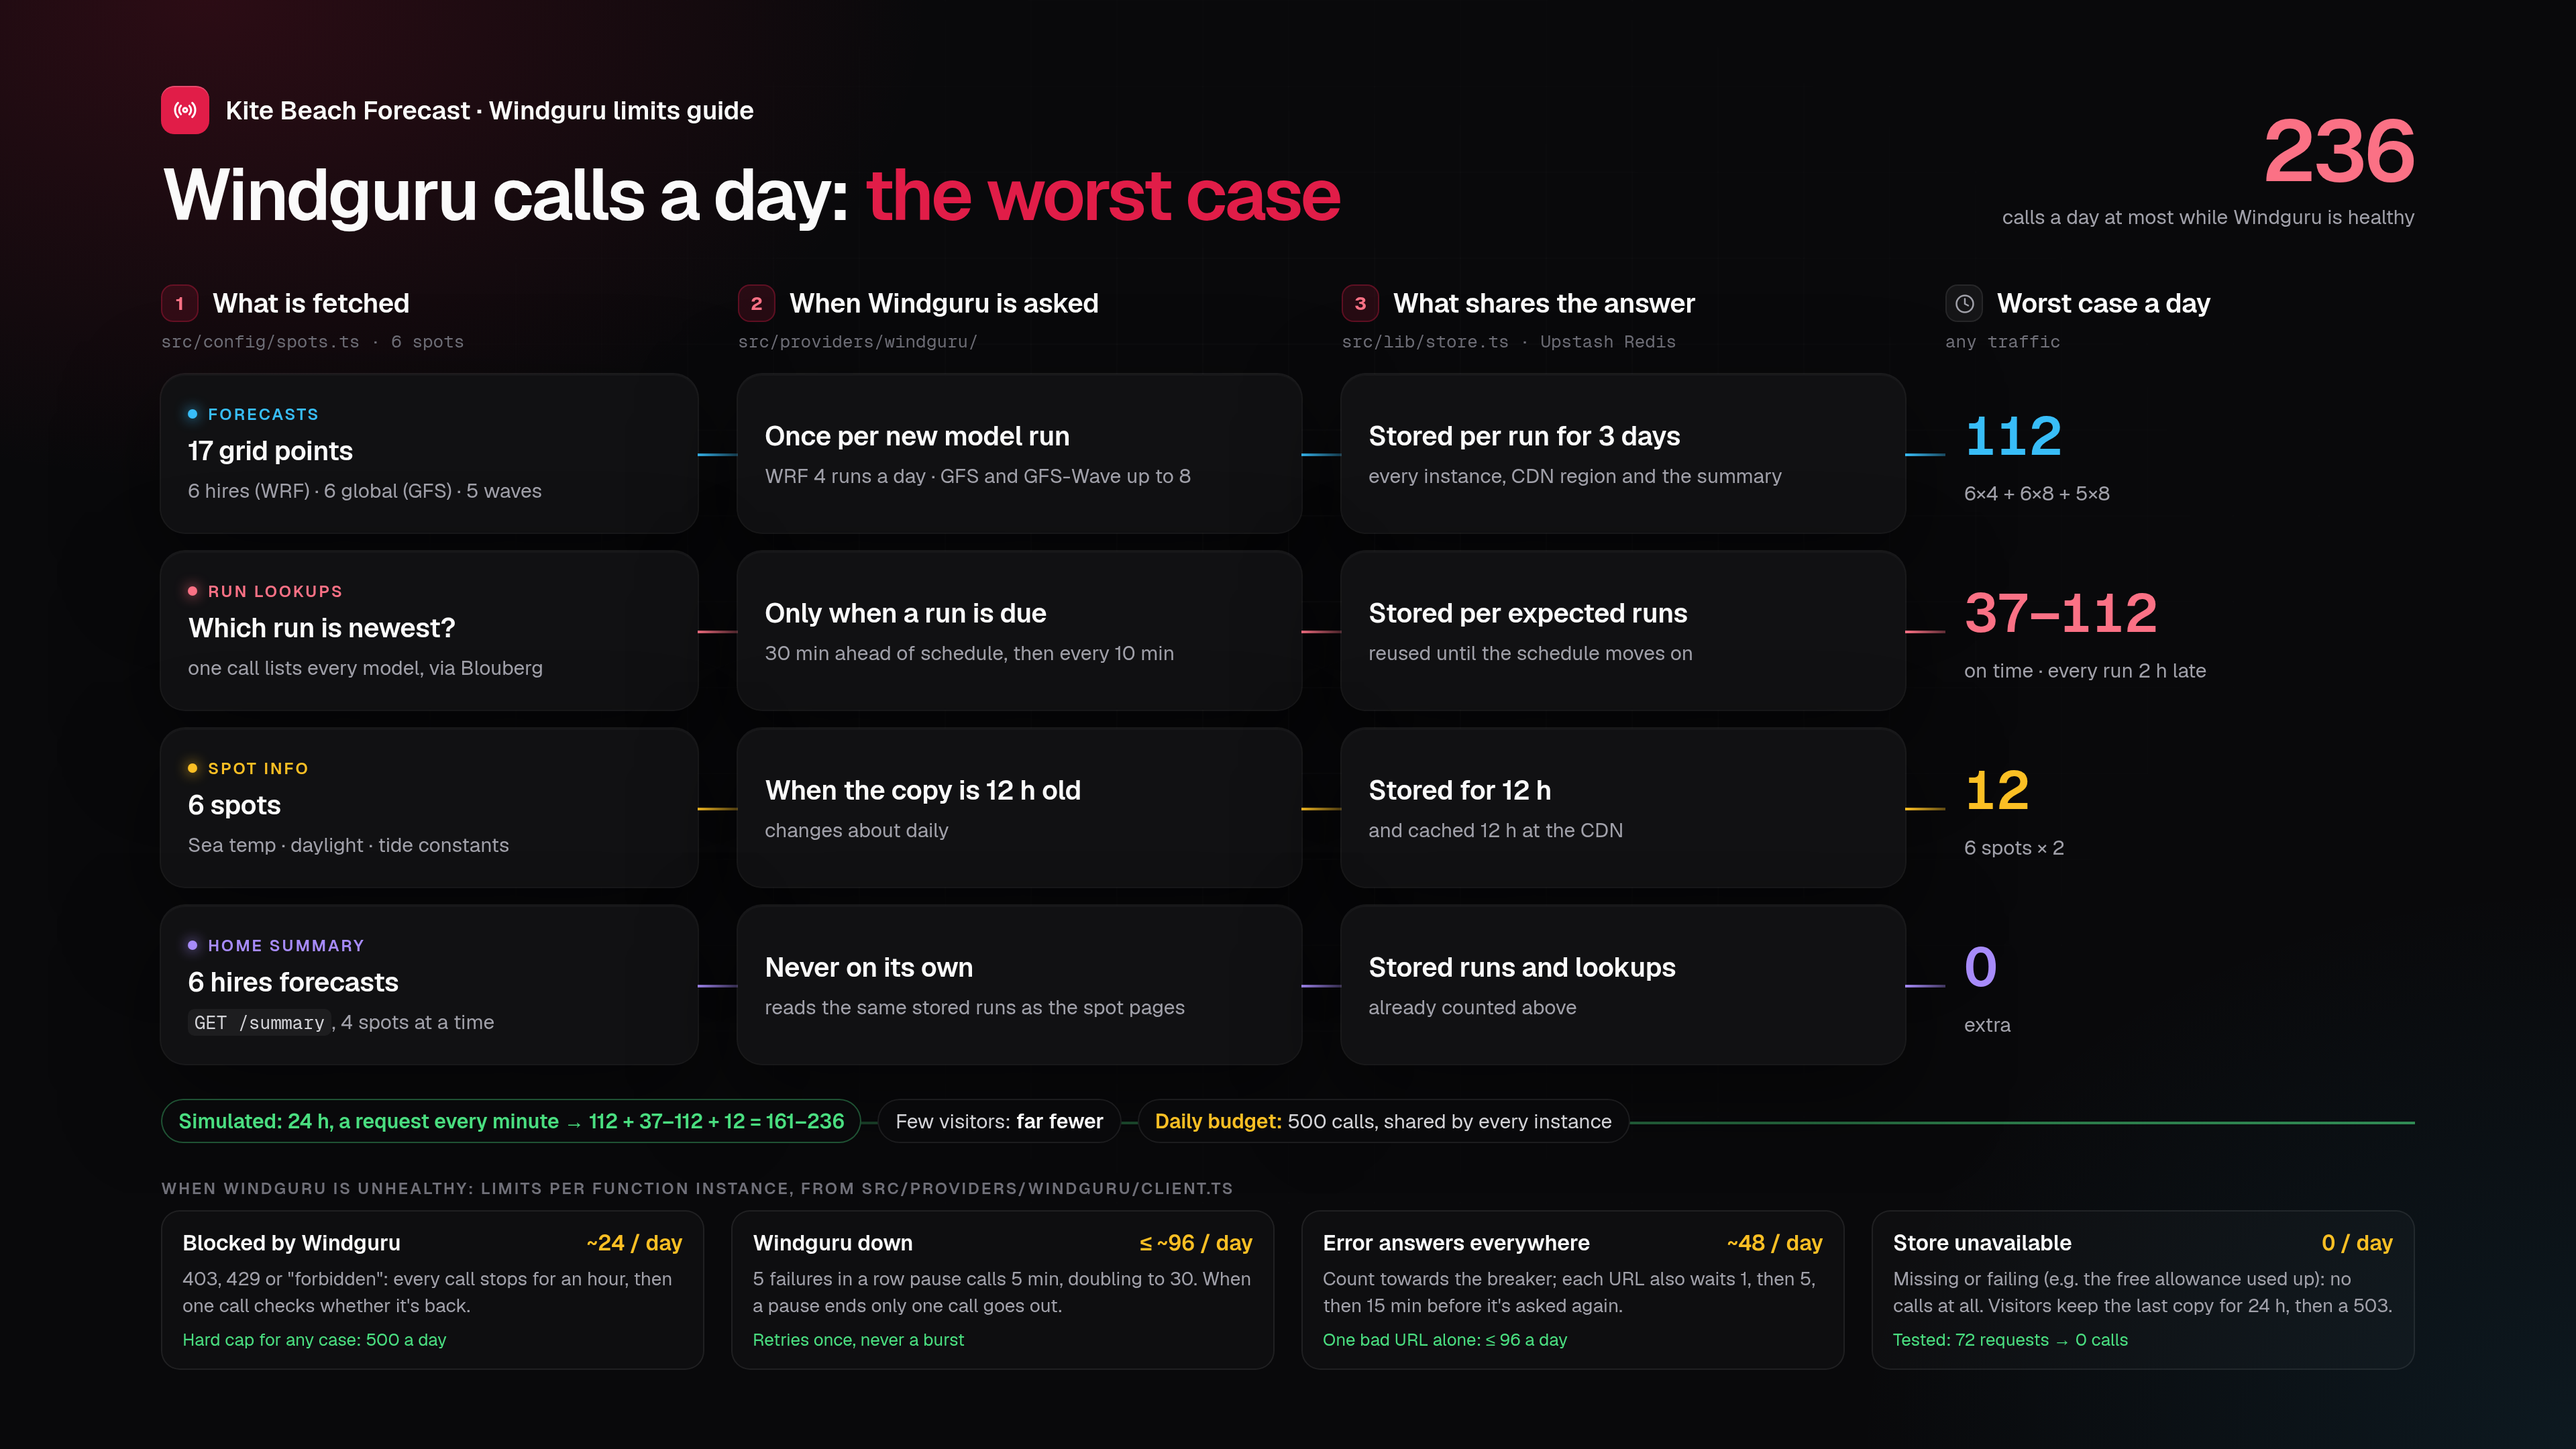
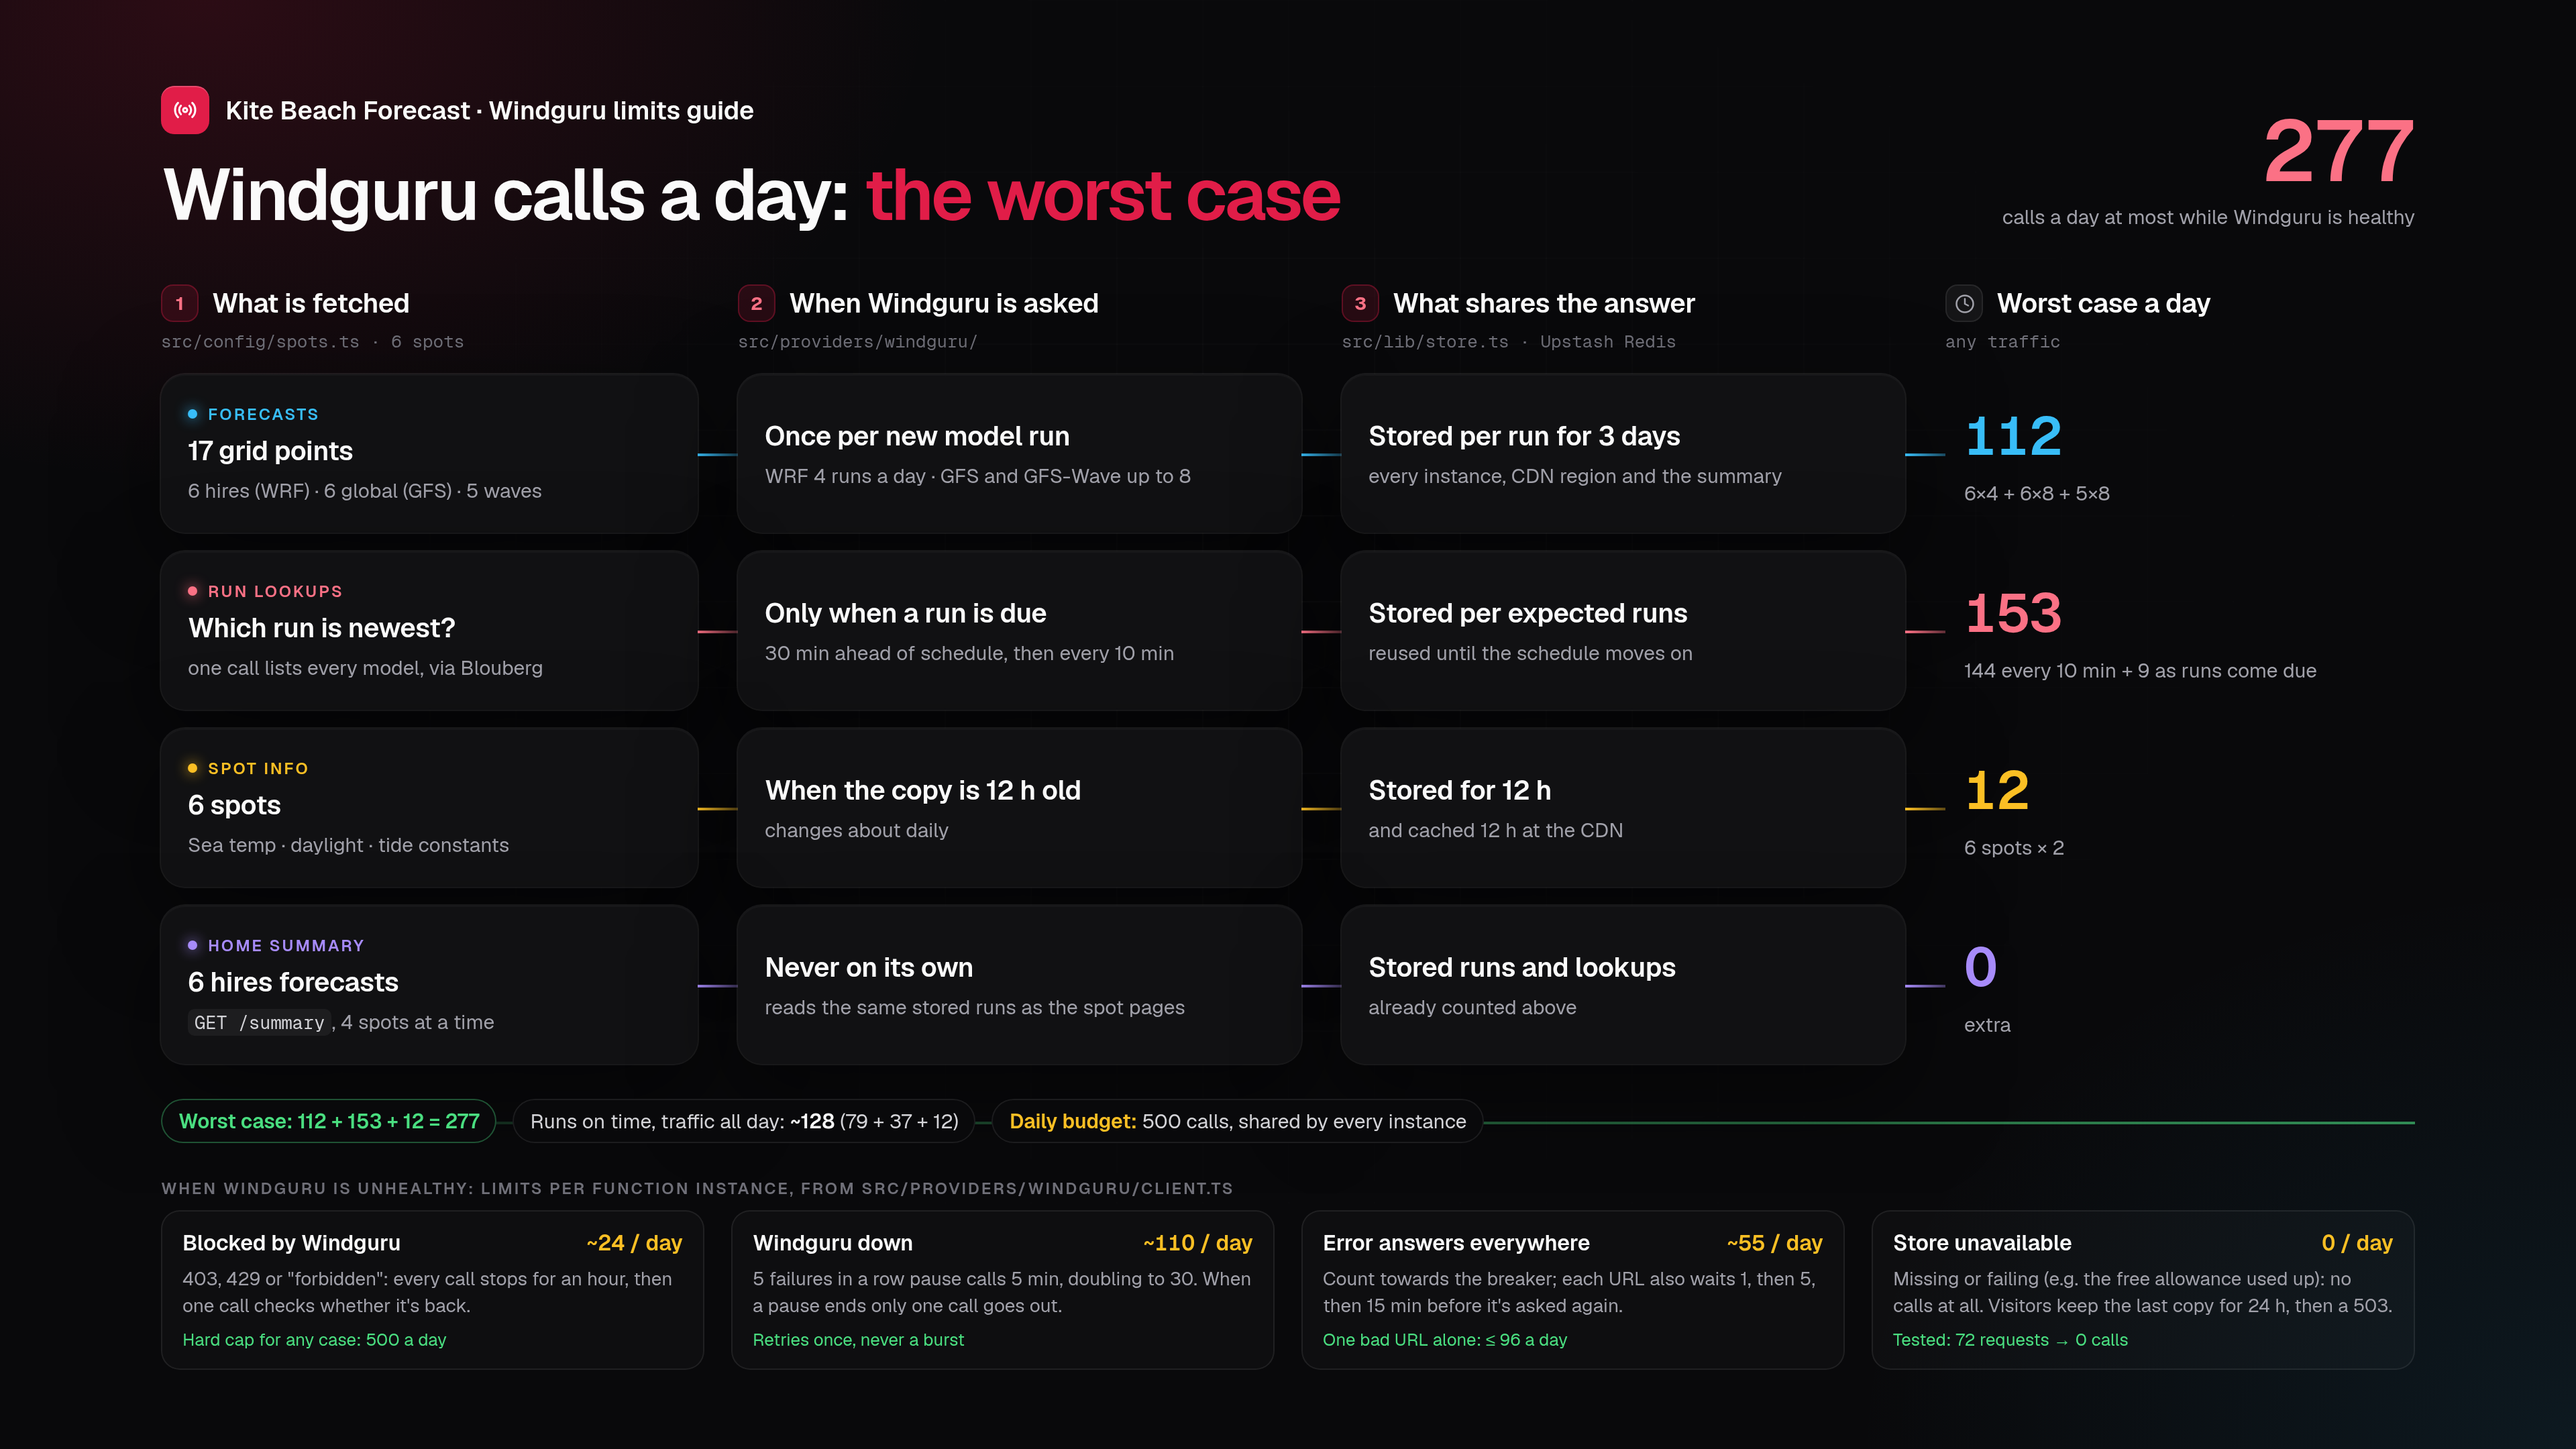
Update windguru limits diagram

diff --git a/docs/diagrams/windguru-limits.html b/docs/diagrams/windguru-limits.html
@@ -110,7 +110,7 @@
       <h1>Windguru calls a day: <em>the worst case</em></h1>
     </div>
     <div class="total">
-      <span class="big">236</span>
+      <span class="big">277</span>
       <div class="s">calls a day at most while Windguru is healthy</div>
     </div>
   </div>
@@ -147,7 +147,7 @@
       <span class="t">Stored per expected runs</span><span class="s">reused until the schedule moves on</span>
     </div>
     <div class="card delay" style="--c:var(--live); grid-row:3; grid-column:4;">
-      <span class="big">37–112</span><span class="s">on time · every run 2 h late</span>
+      <span class="big">153</span><span class="s">144 every 10 min + 9 as runs come due</span>
     </div>
 
     <!-- Spot info -->
@@ -181,16 +181,16 @@
 
   <div class="back">
     <span class="line"></span>
-    <span class="chip ok">Simulated: 24 h, a request every minute → 112 + 37–112 + 12 = 161–236</span>
-    <span class="chip">Few visitors: <b>far fewer</b></span>
+    <span class="chip ok">Worst case: 112 + 153 + 12 = 277</span>
+    <span class="chip">Runs on time, traffic all day: <b>~128</b> (79 + 37 + 12)</span>
     <span class="chip warn"><b>Daily budget:</b> 500 calls, shared by every instance</span>
   </div>
 
   <div class="section">When Windguru is unhealthy: limits per function instance, from src/providers/windguru/client.ts</div>
   <div class="recipes">
     <div class="fail"><h4>Blocked by Windguru <span>~24 / day</span></h4><p>403, 429 or "forbidden": every call stops for an hour, then one call checks whether it's back.</p><span class="ok">Hard cap for any case: 500 a day</span></div>
-    <div class="fail"><h4>Windguru down <span>≤ ~96 / day</span></h4><p>5 failures in a row pause calls 5 min, doubling to 30. When a pause ends only one call goes out.</p><span class="ok">Retries once, never a burst</span></div>
-    <div class="fail"><h4>Error answers everywhere <span>~48 / day</span></h4><p>Count towards the breaker; each URL also waits 1, then 5, then 15 min before it's asked again.</p><span class="ok">One bad URL alone: ≤ 96 a day</span></div>
+    <div class="fail"><h4>Windguru down <span>~110 / day</span></h4><p>5 failures in a row pause calls 5 min, doubling to 30. When a pause ends only one call goes out.</p><span class="ok">Retries once, never a burst</span></div>
+    <div class="fail"><h4>Error answers everywhere <span>~55 / day</span></h4><p>Count towards the breaker; each URL also waits 1, then 5, then 15 min before it's asked again.</p><span class="ok">One bad URL alone: ≤ 96 a day</span></div>
     <div class="fail"><h4>Store unavailable <span>0 / day</span></h4><p>Missing or failing (e.g. the free allowance used up): no calls at all. Visitors keep the last copy for 24 h, then a 503.</p><span class="ok">Tested: 72 requests → 0 calls</span></div>
   </div>
   </div>
